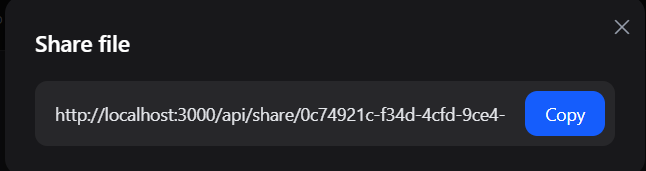
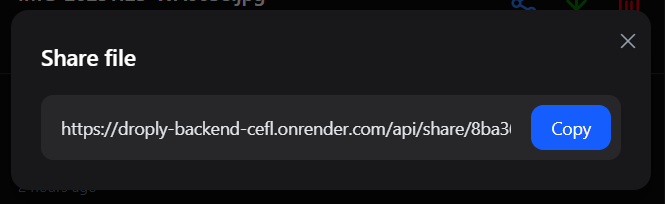
fix: add file upload size limitation and improve CORS handling; enhance loading states in login and register forms

diff --git a/frontend/src/components/pages/Login.jsx b/frontend/src/components/pages/Login.jsx
@@ -15,6 +15,7 @@ export default function Login() {
     e.preventDefault();
 
     try {
+      setLoading(true)
       await axios.post(
         `${API_BASE_URL}/api/auth/user/login`,
         {
@@ -33,8 +34,8 @@ export default function Login() {
     } catch (error) {
       const message = error.response?.data?.message || "Something went wrong";
       setErrorMessage(message)
-    }finally{
-       setLoading(false)
+    } finally {
+      setLoading(false)
     }
   };
 
@@ -57,6 +58,7 @@ export default function Login() {
               Email
             </label>
             <input
+              required
               id="email"
               type="email"
               placeholder="you@example.com"
@@ -74,6 +76,7 @@ export default function Login() {
               Password
             </label>
             <input
+              required
               id="password"
               type="password"
               placeholder="••••••••"
@@ -86,7 +89,10 @@ export default function Login() {
 
           <button
             type="submit"
-            className="w-full cursor-pointer rounded-lg bg-blue-600 py-2.5 font-medium text-white hover:bg-blue-700 transition"
+            className={`w-full cursor-pointer rounded-lg ${loading
+              ? "bg-blue-400 cursor-not-allowed"
+              : "bg-blue-600 hover:bg-blue-700 cursor-pointer"
+              } py-2.5 font-medium text-white transition`}
           >
             {loading ? "Logging in..." : "Login"}
           </button>

diff --git a/frontend/src/components/pages/Register.jsx b/frontend/src/components/pages/Register.jsx
@@ -16,6 +16,7 @@ export default function Register() {
     e.preventDefault()
 
     try {
+      setLoading(true)
       await axios.post(`${API_BASE_URL}/api/auth/user/register`, {
         email,
         password
@@ -54,6 +55,7 @@ export default function Register() {
               Email
             </label>
             <input
+              required
               id="email"
               type="email"
               placeholder="you@example.com"
@@ -68,6 +70,7 @@ export default function Register() {
               Password
             </label>
             <input
+              required
               id="password"
               type="password"
               placeholder="••••••••"
@@ -80,7 +83,7 @@ export default function Register() {
 
           <button
             type="submit"
-            className="w-full cursor-pointer rounded-lg bg-blue-600 py-2.5 font-medium text-white hover:bg-blue-700 transition"
+            className={`w-full cursor-pointer rounded-lg ${loading ? "bg-blue-400 cursor-not-allowed" : "bg-blue-600 hover:bg-blue-700 cursor-pointer"} py-2.5 font-medium text-white transition`}
           >
             {loading ? "Creating account..." : "Create account"}
           </button>

diff --git a/backend/src/app.js b/backend/src/app.js
@@ -9,13 +9,28 @@ import cors from 'cors'
 const app = express()
 app.use(express.json()) 
 app.use(express.urlencoded({ extended: true}))
-
-app.use(cors({
-     origin: process.env.CORS_ORIGIN || "http://localhost:5173",
-     credentials: true
-}))
-
 app.use(cookieParser())
+
+const isProd = process.env.NODE_ENV === "production";
+
+const allowedOrigins = isProd
+  ? [process.env.CLIENT_URL_PROD]
+  : [process.env.CLIENT_URL_DEV];
+
+app.use(
+  cors({
+    origin: function (origin, callback) {
+      if (!origin) return callback(null, true);
+
+      if (allowedOrigins.includes(origin)) {
+        callback(null, true);
+      } else {
+        callback(new Error("Not allowed by CORS"));
+      }
+    },
+    credentials: true
+  })
+);
 
 app.get('/', (req, res)=>{
     res.send("Hello Server")

diff --git a/README.md b/README.md
@@ -38,6 +38,11 @@ Droply allows users to securely share files using public, token-based share link
 
 ![File Sharing Demo](./frontend/public/share.png)
 
+## ⚠ Limitation
+
+Due to cloud storage plan limits, file uploads are currently restricted to **10MB**.
+This can be scaled later by switching to a different storage provider or paid plan.
+
 ## �🛠 Technologies Used
 
 ### Frontend
